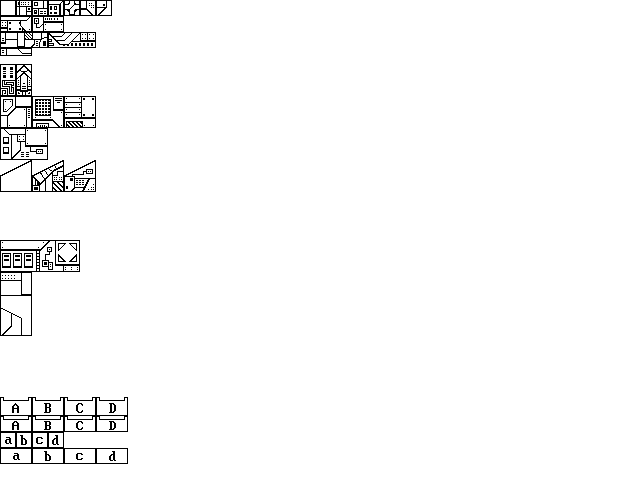
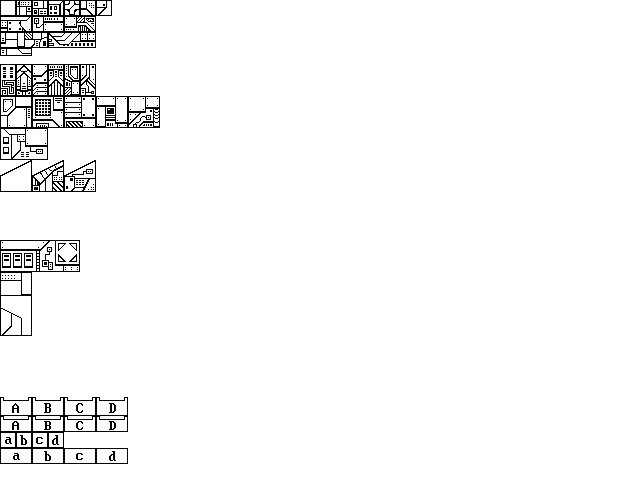
drew some new blocks

Changed region(s): [[0.0312, 0.125, 0.1562, 0.2188], [0.1562, 0.1875, 0.25, 0.2812], [0.0938, 0.0312, 0.1562, 0.0625]]

diff --git a/src/game/spriteref.py b/src/game/spriteref.py
@@ -602,14 +602,14 @@ class _BlockSheet(spritesheets.SpriteSheet):
         def _make_blocks(size, x, y, n=1, offs=(0, 0)):
             return [_img(x + i * 16 * size[0], y, 16 * size[0], 16 * size[1], offs=offs) for i in range(0, n)]
 
-        self.blocks[(1, 1)] = _make_blocks((1, 1), 16, 0, n=7, offs=start_pos)
-        self.blocks[(2, 1)] = _make_blocks((2, 1), 0, 16, n=2, offs=start_pos)
+        self.blocks[(1, 1)] = _make_blocks((1, 1), 16, 0, n=6, offs=start_pos)
+        self.blocks[(2, 1)] = _make_blocks((2, 1), 0, 16, n=3, offs=start_pos)
         self.blocks[(3, 1)] = _make_blocks((3, 1), 0, 32, n=2, offs=start_pos)
 
         self.blocks[(2, 0.5)] = _make_blocks((2, 0.5), 0, 48, n=1, offs=start_pos)
 
-        self.blocks[(1, 2)] = _make_blocks((1, 2), 0, 64, n=2, offs=start_pos)
-        self.blocks[(2, 2)] = _make_blocks((2, 2), 0, 96, n=3, offs=start_pos)
+        self.blocks[(1, 2)] = _make_blocks((1, 2), 0, 64, n=6, offs=start_pos)
+        self.blocks[(2, 2)] = _make_blocks((2, 2), 0, 96, n=5, offs=start_pos)
         self.blocks[(3, 2)] = _make_blocks((3, 2), 0, 128, n=1, offs=start_pos)
 
         self.quad_blocks = _make_blocks((2, 2), 0, 160, n=3, offs=start_pos)
